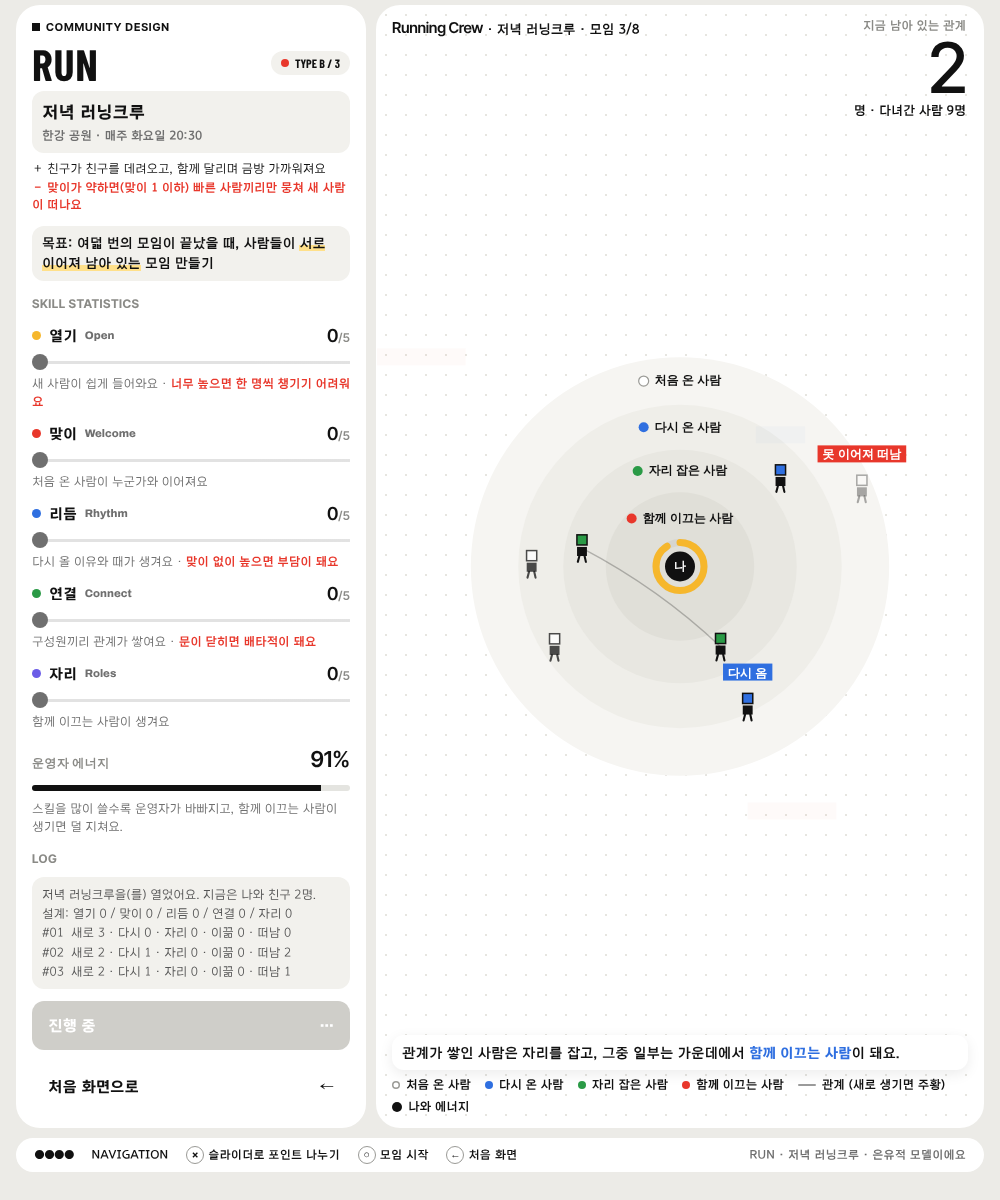
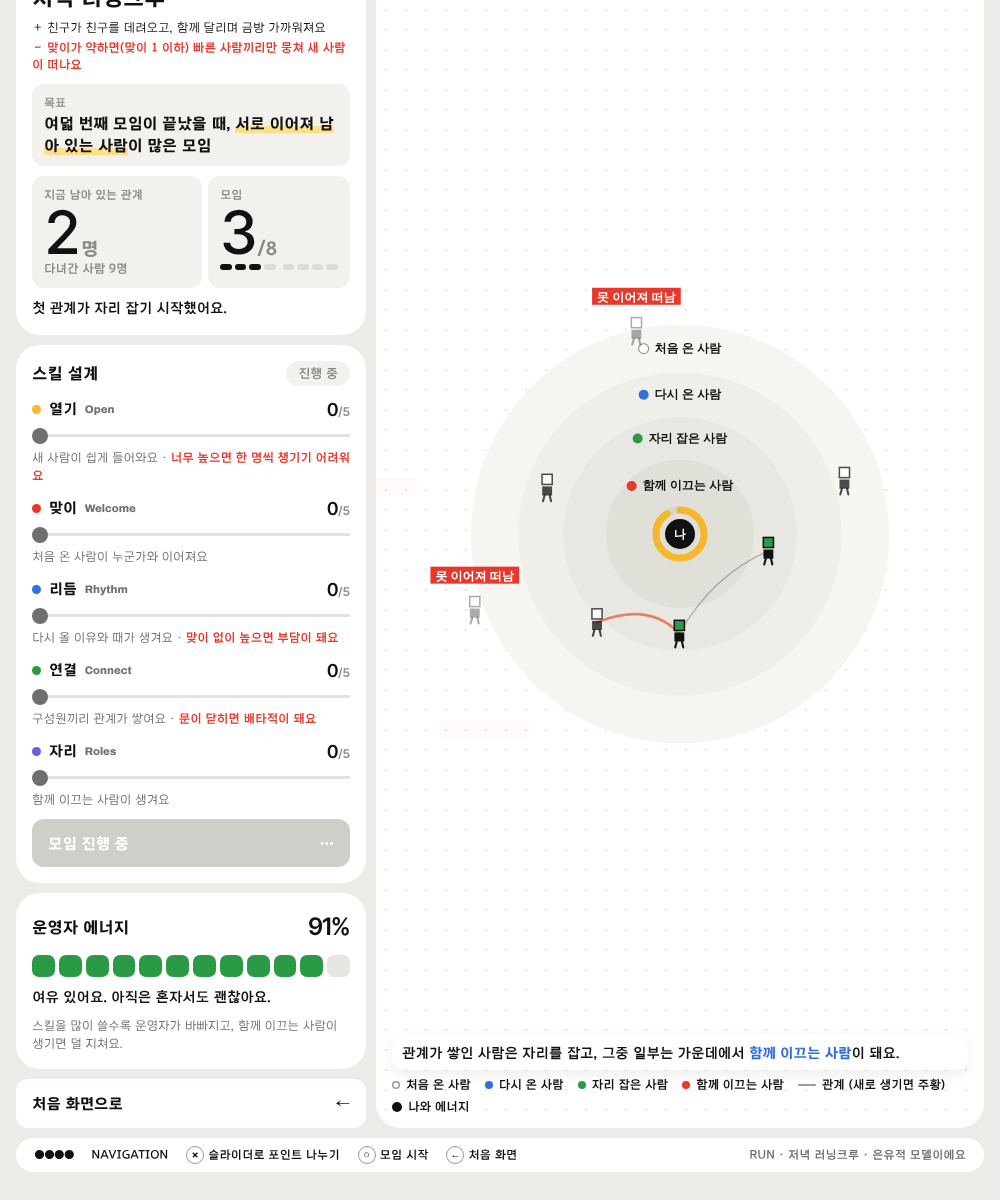
게임 v0.9 시안: 왼쪽 패널을 상자 3개로, 목표와 지금 상황 강조, 칸 게이지와 상황 문구, 로그 삭제
Claude-Session: https://claude.ai/code/session_01SaCvLutmawHZS3kxPWYxw7

diff --git a/thesis/game/moim.v07.src.html b/thesis/game/moim.v07.src.html
@@ -428,6 +428,36 @@ body{background:var(--page)}
 .c2-m .cell{border-radius:var(--r-sm)}
 .q2{border:0;background:var(--card);border-radius:var(--r-lg)}
 .c2-r .cell{background:var(--card);border-radius:var(--r-md);padding:12px 14px}
+
+/* ───────── v0.9 왼쪽 패널을 상자 3개로: 지금 상황 / 스킬 설계 / 운영자 에너지 ───────── */
+.panel{background:transparent!important;padding:0;gap:10px;border-radius:0}
+.pcard{background:var(--card);border-radius:var(--r-lg);padding:16px;display:grid;gap:10px;align-content:start}
+.cat{display:flex;align-items:center;gap:6px;font-size:12px;font-weight:700;color:var(--soft)}
+.pname{font-size:22px;font-weight:800;line-height:1.2}
+.goal3{background:var(--cell);border-radius:var(--r-sm);padding:10px 12px;display:grid;gap:2px}
+.goal3 small{font-size:11.5px;font-weight:700;color:var(--soft)}
+.goal3 p{font-size:15.5px;font-weight:800;line-height:1.4}
+.goal3 mark{background:none;color:inherit;box-shadow:inset 0 -7px 0 #ffe08a}
+.now{display:grid;grid-template-columns:minmax(0,1.2fr) minmax(0,1fr);gap:6px}
+.now>div{background:var(--cell);border-radius:var(--r-sm);padding:10px 12px;display:grid;gap:2px;align-content:start}
+.now small{font-size:11.5px;font-weight:700;color:var(--soft)}
+.now .hero-n{font-size:60px}
+.now .hero-n em{font-style:normal;font-size:.3em;letter-spacing:0;margin-left:3px;font-family:var(--f-body);font-weight:800;color:var(--soft)}
+.now span{font-size:12px;font-weight:700;color:var(--soft)}
+.steps{display:flex;gap:3px;margin-top:4px}
+.steps i{flex:1;height:6px;border-radius:3px;background:#dcdbd5}
+.steps i.on{background:var(--ink)}
+.steps i.half{margin-right:4px}
+.msg{font-size:14px;font-weight:700;line-height:1.45}
+.ph{display:flex;justify-content:space-between;align-items:center;gap:8px}
+.ph h3{font-size:16px;font-weight:800}
+.pts3{background:var(--ink);color:#fff;border-radius:999px;padding:3px 12px;font-size:12.5px;font-weight:700}
+.pts3 b{font-family:var(--f-head);font-weight:600;font-size:16px;margin-left:4px}
+.pts3.zero{background:var(--cell);color:var(--soft)}
+.e-num{font-family:var(--f-head);font-weight:600;font-size:24px;letter-spacing:-.02em}
+.e-num.low{color:var(--red)}
+.gauge{display:grid;grid-template-columns:repeat(12,minmax(0,1fr));gap:4px}
+.gauge i{height:22px;border-radius:7px;background:#e6e5df;transition:background .4s}
 @media (prefers-reduced-motion:reduce){*{transition:none!important;animation:none!important}}
 </style>
 
@@ -524,6 +554,7 @@ function tag(p,text,color){st.tags.push({p,text,color,life:1});}
 
 // 한 번의 모임
 function step(){
+  st.prevE=st.E;
   const k=st.skills, eff=st.E<25?.7:1, T=TYPES[st.type];
   let back=0,settle=0,lead=0,gone=0;
   for(const p of alive()){
@@ -802,7 +833,6 @@ function renderTool(){
     <div class="panel" id="panel"></div>
     <div class="canvas-wrap"><canvas id="cv" role="img" aria-label="모임 현장: 바깥에서 안쪽으로 처음 온 사람, 다시 온 사람, 자리 잡은 사람, 함께 이끄는 사람"></canvas>
       <div class="c-top"><span><span class="latin">${T.en}</span> · ${T.name} · <span id="mt"></span></span></div>
-      <div class="c-hero"><small>지금 남아 있는 관계</small><b class="hero-n" id="hero">0</b><span id="hero2"></span></div>
       <div class="c-cap"><span id="cap"></span>
         <span class="c-key">${STAGE_NAMES.map((n,i)=>`<span><i class="dot" style="background:${STAGE_C[i]};${i===0?'box-shadow:inset 0 0 0 1.5px #9a9a96':''}"></i>${n}</span>`).join('')}<span><i style="width:18px;height:2px;background:#9a9a9a;display:inline-block;border-radius:2px"></i>관계 (새로 생기면 주황)</span><span><i class="sq" style="background:${COL.ink};border-radius:50%"></i>나와 에너지</span></span></div></div></div>
     <div class="hints"><span class="dots">●●●●</span><span>NAVIGATION</span><span><kbd>×</kbd>슬라이더로 포인트 나누기</span><span><kbd>○</kbd>모임 시작</span><span><kbd>←</kbd>처음 화면</span><span class="r">${T.code} · ${T.name} · 은유적 모델이에요</span></div>`;
@@ -812,34 +842,60 @@ function renderTool(){
 }
 function sizeCanvas(){if(!canvas)return;const r=canvas.getBoundingClientRect(),d=window.devicePixelRatio||1,w=Math.round(r.width*d),h=Math.round(r.height*d);if(canvas.width!==w)canvas.width=w;if(canvas.height!==h)canvas.height=h;}
 window.addEventListener('resize',()=>{sizeCanvas();if(!st&&screen==='intro'&&mapRedraw)mapRedraw();});
+// 지금 상황을 한 문장으로: 남은 관계와 운영자 에너지가 바뀔 때마다 문구도 바뀌어요
+function relMsg(n){
+  if(st.meeting===0)return '시작을 누르면 첫 모임이 열려요. 지금은 나와 친구 2명이에요.';
+  if(n===0)return '아직 자리 잡은 사람이 없어요. 처음 온 사람이 누군가와 이어져야 다시 와요.';
+  if(n<=2)return '첫 관계가 자리 잡기 시작했어요.';
+  if(n<=5)return '다시 오는 사람이 늘며 모임의 중심이 생기고 있어요.';
+  if(n<=9)return '관계가 관계를 부르고 있어요.';
+  return '모임이 스스로 굴러갈 만큼 단단해졌어요.';
+}
+function energyMsg(e,leaders){
+  const up=st.prevE!==undefined&&e>Math.round(st.prevE);
+  let m=up?'함께 이끄는 사람 덕분에 숨을 돌렸어요.':e>=75?'여유 있어요. 아직은 혼자서도 괜찮아요.':e>=50?'조금씩 바빠지고 있어요.':e>=30?'지쳐 가고 있어요. 일을 나눌 사람이 필요해요.':e>=10?'많이 지쳤어요. 혼자 다 하기엔 벅차요.':'한계예요. 모임이 멈출 수 있어요.';
+  if(leaders&&!up)m+=` 함께 이끄는 사람 ${leaders}명이 일을 나눠 들고 있어요.`;
+  return m;
+}
+function gauge(e){
+  const N=12,on=Math.ceil(e/100*N),c=e>=50?'var(--green)':e>=30?'var(--yellow)':'var(--red)';
+  return `<div class="gauge" role="meter" aria-valuemin="0" aria-valuemax="100" aria-valuenow="${e}" aria-label="운영자 에너지">${Array.from({length:N},(_,i)=>`<i style="${i<on?`background:${c}`:''}"></i>`).join('')}</div>`;
+}
 function renderPanel(){
   const P=document.getElementById('panel');if(!P)return;
-  const editable=st.phase==='alloc'||st.phase==='levelup', lv=st.phase==='levelup';
+  const editable=st.phase==='alloc'||st.phase==='levelup', lv=st.phase==='levelup', T=TYPES[st.type];
+  const L=alive(), rooted=L.filter(p=>p.stage>=2).length, leaders=L.filter(p=>p.stage===3).length;
   document.getElementById('mt').innerHTML=`모임 ${st.meeting}/${MEETINGS}`;
-  {const L=alive();document.getElementById('hero').textContent=L.filter(p=>p.stage>=2).length;document.getElementById('hero2').textContent=`명 · 다녀간 사람 ${st.total+2}명`;}
   document.getElementById('cap').innerHTML=st.phase==='alloc'?'왼쪽에서 스킬 포인트를 나누고 시작을 누르세요.':lv?'4번의 모임이 끝났어요. 포인트를 더 나눠 보세요.':(st.cap||(st.last?`새로 온 사람 <b>${st.last.n}</b> · 다시 온 사람 <b>${st.last.back}</b> · 자리 잡은 사람 <b>${st.last.settle}</b> · 떠난 사람 <b>${st.last.gone}</b>`:''));
   const e=Math.round(st.E);
   P.innerHTML=`
-    <div class="p-head"><small>COMMUNITY DESIGN</small>
-      <div class="p-type"><b>${TYPES[st.type].code}</b><span class="pill" style="background:var(--cell)"><i class="dot" style="background:${TYPES[st.type].c}"></i>TYPE ${'ABC'[TKEYS.indexOf(st.type)]} / 3</span></div>
-      <div class="p-name"><strong>${TYPES[st.type].name}</strong><span>${TYPES[st.type].place} · ${TYPES[st.type].when} ${TYPES[st.type].time}</span></div>
-      <div class="p-trait"><span>＋ ${TYPES[st.type].plus}</span><span class="neg">－ ${TYPES[st.type].minus}</span></div></div>
-    <p class="goal">목표: 여덟 번의 모임이 끝났을 때, 사람들이 <mark>서로 이어져 남아 있는</mark> 모임 만들기</p>
-    ${lv?`<div class="lvl2"><small>LEVEL UP · 모임 4번 뒤 진단</small><div class="row2"><b class="hero-n">+${st.gain}</b><span>포인트를 더 나눌 수 있어요</span></div><p>${diagnosis()}</p></div>`:''}
-    ${editable?`<div class="pts2 ${st.points?'':'zero'}"><span>남은 스킬 포인트</span><b class="hero-n">${st.points}</b></div>`:''}
-    <div class="sec"><div class="sec-h">Skill Statistics</div>
+    <section class="pcard">
+      <div class="cat"><i class="dot" style="background:${T.c}"></i>${T.code} · TYPE ${'ABC'[TKEYS.indexOf(st.type)]} · ${T.place} · ${T.when} ${T.time}</div>
+      <h2 class="pname">${T.name}</h2>
+      <div class="p-trait"><span>＋ ${T.plus}</span><span class="neg">－ ${T.minus}</span></div>
+      <div class="goal3"><small>목표</small><p>여덟 번째 모임이 끝났을 때, <mark>서로 이어져 남아 있는 사람</mark>이 많은 모임</p></div>
+      <div class="now">
+        <div class="now-n"><small>지금 남아 있는 관계</small><b class="hero-n">${rooted}<em>명</em></b><span>다녀간 사람 ${st.total+2}명</span></div>
+        <div class="now-m"><small>모임</small><b class="hero-n">${st.meeting}<em>/${MEETINGS}</em></b><span class="steps">${Array.from({length:MEETINGS},(_,i)=>`<i class="${i<st.meeting?'on':''}${i===HALF-1?' half':''}"></i>`).join('')}</span></div>
+      </div>
+      <p class="msg">${relMsg(rooted)}</p>
+    </section>
+    <section class="pcard">
+      <div class="ph"><h3>스킬 설계</h3>${editable?`<span class="pts3 ${st.points?'':'zero'}">남은 포인트 <b>${st.points}</b></span>`:`<span class="pts3 zero">진행 중</span>`}</div>
+      ${lv?`<div class="lvl2"><small>LEVEL UP · 모임 4번 뒤 진단</small><div class="row2"><b class="hero-n">+${st.gain}</b><span>포인트를 더 나눌 수 있어요</span></div><p>${diagnosis()}</p></div>`:''}
       ${SKILLS.map(s=>{const v=st.skills[s.k],lk=st.lock[s.k];return `<div class="sk">
         <div class="sk-row"><label class="sk-name" for="r-${s.k}"><i class="dot" style="background:${s.c}"></i>${s.name}<small>${s.en}</small></label><span class="sk-val">${v}<em>/${MAXLV}</em>${v>lk&&lv?`<ins>+${v-lk}</ins>`:''}</span></div>
         <input type="range" id="r-${s.k}" data-k="${s.k}" min="0" max="${MAXLV}" step="1" value="${v}" style="--fill:${v/MAXLV*100}%;--c:${s.c}" ${editable?'':'disabled'}>
-        <span class="sk-desc">${s.sub}${s.down?` · <span class="neg">${s.down}</span>`:''}</span></div>`;}).join('')}</div>
-    <div class="sec"><div class="e-row ${e<30?'low':''}"><span class="sec-h" style="border:0;padding:0">운영자 에너지</span><b>${e}%</b></div>
-      <div class="ebar"><i style="width:${e}%;${e<30?'background:var(--red)':''}"></i></div>
-      <span class="sk-desc">스킬을 많이 쓸수록 운영자가 바빠지고, 함께 이끄는 사람이 생기면 덜 지쳐요.</span></div>
-    <div class="sec"><div class="sec-h">Log</div>
-      <div class="log" id="log">${logLines.map(l=>l.startsWith('!')?`<span class="o">${l.slice(1)}</span>`:l).join('\n')}</div></div>
-    ${editable?`<button class="btn" id="go"><span>${lv?'남은 모임 4번 진행':'모임 8번 시작'}</span><span>▶</span></button>`:`<button class="btn" disabled><span>진행 중</span><span>…</span></button>`}
+        <span class="sk-desc">${s.sub}${s.down?` · <span class="neg">${s.down}</span>`:''}</span></div>`;}).join('')}
+      ${editable?`<button class="btn" id="go"><span>${lv?'남은 모임 4번 진행':'모임 8번 시작'}</span><span>▶</span></button>`:`<button class="btn" disabled><span>모임 진행 중</span><span>…</span></button>`}
+    </section>
+    <section class="pcard">
+      <div class="ph"><h3>운영자 에너지</h3><b class="e-num ${e<30?'low':''}">${e}%</b></div>
+      ${gauge(e)}
+      <p class="msg">${energyMsg(e,leaders)}</p>
+      <span class="sk-desc">스킬을 많이 쓸수록 운영자가 바빠지고, 함께 이끄는 사람이 생기면 덜 지쳐요.</span>
+    </section>
     <button class="btn ghost" id="quit"><span>처음 화면으로</span><span>←</span></button>`;
-  const lg=document.getElementById('log');lg.scrollTop=lg.scrollHeight;
   P.querySelectorAll('input[type=range]').forEach(inp=>inp.oninput=()=>{
     const k=inp.dataset.k, old=st.skills[k];let v=+inp.value;
     v=clamp(v,st.lock[k],old+st.points);st.points-=v-old;st.skills[k]=v;renderPanel();resetIdle();

diff --git a/thesis/26-game-prototype.md b/thesis/26-game-prototype.md
@@ -92,3 +92,10 @@
 - 연구자 피드백: ① 화면 비율이 바뀌면 시뮬레이션 원이 찌그러짐 ② 검은 선 없이 radius가 큰 상자 사용
 - ① 원인: 왼쪽 패널 길이가 바뀌면(레벨업 상자 등) 캔버스 표시 크기만 늘고 내부 픽셀 크기는 그대로였음 → ResizeObserver와 매 프레임 크기 확인으로 해결. 진행 중 창 크기를 바꿔도 비율 일치 확인
 - ② 따뜻한 회색 바탕(#ecebe7) 위 흰 상자(radius 24), 안쪽 회색 칸(radius 12), 조작 안내 줄은 알약 모양. 검은 테두리 모두 제거. 시뮬레이션 동심원도 검은 선 대신 옅은 회색 구역, 범례는 점으로
+
+## v0.9 시안 (2026-10-28, 같은 파일, 컨펌 대기)
+- 연구자 피드백: 왼쪽 패널을 상자 2~3개로 나누기, 로그는 불필요, BOOK 같은 분류는 작은 글씨, 목표와 현재 상황은 더 잘 보이게, 게이지 바 디자인 다시, 게이지가 바뀔 때 상황에 맞는 문구
+- 상자 1 지금 상황: 작은 분류 줄(BOOK · TYPE A · 장소·시간) → 모임 이름 → 특징·주의 → 목표(회색 칸, 굵게) → 지금 남아 있는 관계(큰 숫자)와 모임 회차(큰 숫자 + 8칸 진행 점) → 상황 문장(남은 관계 수에 따라 6단계)
+- 상자 2 스킬 설계: 남은 포인트 알약, 레벨업 진단, 슬라이더, 시작 버튼
+- 상자 3 운영자 에너지: 둥근 칸 12개 게이지(50% 이상 초록, 30~50% 노랑, 30% 미만 빨강) + 상황 문장(에너지 단계 5개, 에너지가 오르면 "함께 이끄는 사람 덕분에 숨을 돌렸어요", 이끄는 사람 수 안내)
+- 로그 표시 삭제, 캔버스 위 큰 숫자는 상자 1로 옮김
